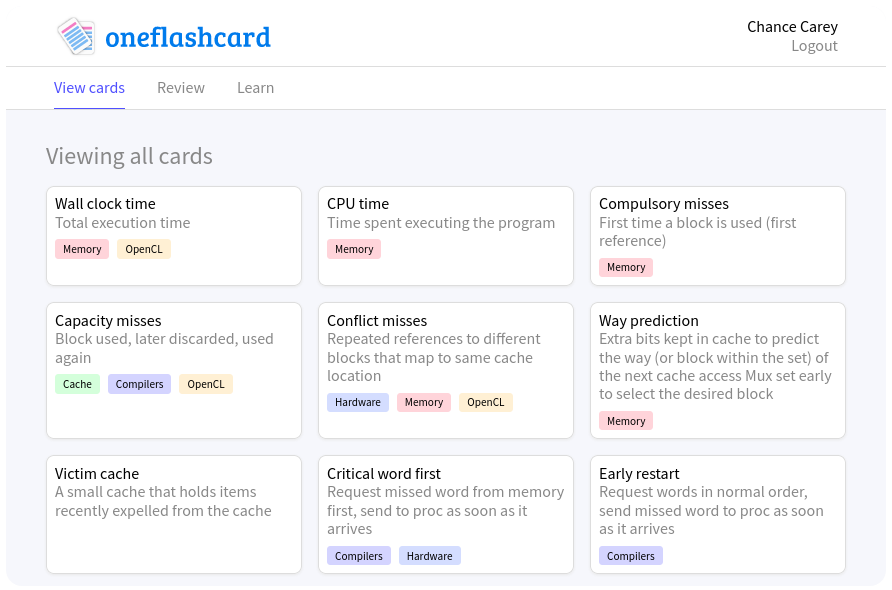
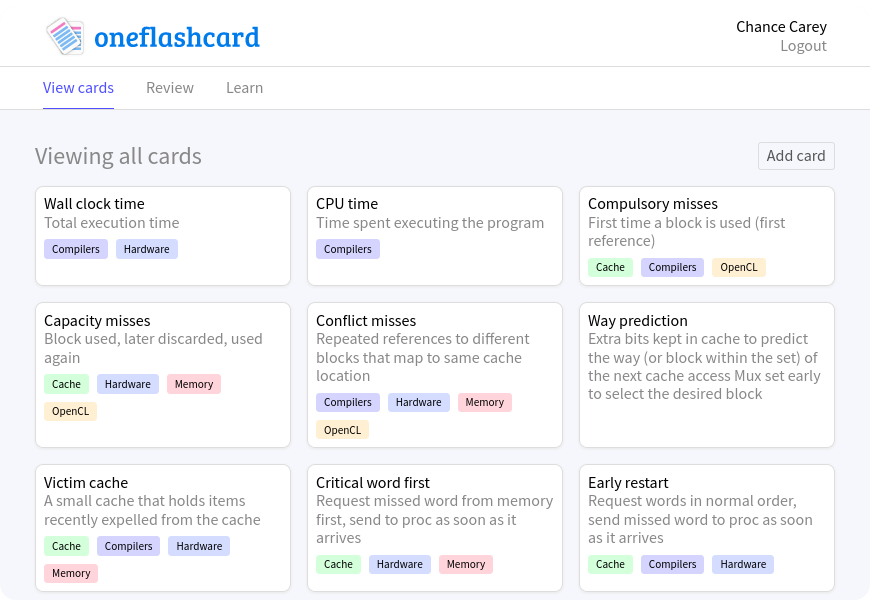
Improve demo picture quality

diff --git a/webclient/src/ui.ts b/webclient/src/ui.ts
@@ -1,5 +1,7 @@
 import styled, { createGlobalStyle } from "styled-components";
 
+export const present = false;
+
 // =============
 // =============
 // Global design
@@ -8,8 +10,25 @@ import styled, { createGlobalStyle } from "styled-components";
 export const GlobalStyle = createGlobalStyle`
 body {
   background: #f6f7fc;
+
+  ${present &&
+    `
+    background: white;
+  `}
+}
+
+#root {
   font-family: "Source Sans Pro", sans-serif;
   padding-bottom: 0.5rem;
+
+  ${present &&
+    `
+    background: #f6f7fc;
+    width: 870px;
+    overflow: hidden;
+    margin: 20px;
+    border-radius: 1rem;
+  `}
 }
 `;
 
@@ -27,6 +46,11 @@ export const VertBar = styled.div`
 export const Centered = styled.div`
   margin: 0 auto;
   max-width: 1400px;
+
+  ${present &&
+    `
+    max-width: 800px;
+  `}
 `;
 
 export const ProfileBox = styled.div`
@@ -88,7 +112,8 @@ export const BodyTitle = styled.div`
 
 export const BodyBarAction = styled.div`
   :hover {
-    border-color: #575757;
+    border-color: #5050ff;
+    color: #5050ff;
   }
 
   float: right;
@@ -105,8 +130,13 @@ export const BodyBarAction = styled.div`
 
 export const Cards = styled.div`
   display: grid;
-  grid-template-columns: repeat(auto-fit, minmax(300px, 1fr));
   grid-gap: 1rem;
+  grid-template-columns: repeat(auto-fit, minmax(300px, 1fr));
+
+  ${present &&
+    `
+    grid-template-columns: repeat(auto-fit, minmax(200px, 1fr));
+  `}
 `;
 
 export const Card = styled.div`
@@ -125,10 +155,10 @@ export const CardBody = styled.div`
 `;
 
 export const CardTags = styled.div`
-  display: grid;
-  grid-auto-flow: column;
+  display: flex;
+  flex-direction: row;
+  flex-wrap: wrap;
   grid-gap: 0.5rem;
-  justify-content: start;
 
   padding-top: 0.5rem;
   font-size: 0.7rem;

diff --git a/webclient/src/cards.ts b/webclient/src/cards.ts
@@ -1,3 +1,5 @@
+import { present } from "./ui";
+
 const cardStr = `
 Wall clock time[[[Total execution time]]]CPU time[[[Time spent executing the program]]]Compulsory misses[[[First time a block is used (first reference)]]]Capacity misses[[[Block used, later discarded, used again]]]Conflict misses[[[Repeated references to different blocks that map to same cache location]]]Way prediction[[[Extra bits kept in cache to predict the way (or block within the set) of the next cache access
   Mux set early to select the desired block]]]Victim cache[[[A small cache that holds items recently expelled from the cache]]]Critical word first[[[Request missed word from memory first, send to proc as soon as it arrives]]]Early restart[[[Request words in normal order, send missed word to proc as soon as it arrives]]]Compiler blocking[[[Subdivide matrices into blocks, more memory access but improves spatial locality]]]Hardware prefetch[[[Fetch next sequential block, spatial locality]]]Compiler prefetch[[[Compiler inserts prefetch instructions]]]Nonblocking cache[[[A cache that allows the processor to make references to the cache while the cache is handling an earlier miss]]]Cycle time[[[Time between starting memory accesses]]]SRAM[[[Static RAM
@@ -95,7 +97,9 @@ Wall clock time[[[Total execution time]]]CPU time[[[Time spent executing the pro
   All other cached copies are invalidated]]]Data hazard[[[Occurs when dependence results in incorrect execution
 `;
 
-export const cards = cardStr
+const allCards = cardStr
   .trim()
   .split("]]]")
   .map(c => c.split("[[[").map(c => c.trim()));
+
+export const cards = present ? allCards.slice(0, 9) : allCards;

diff --git a/webclient/src/App.tsx b/webclient/src/App.tsx
@@ -40,6 +40,7 @@ export const App = () => {
     }
     return sTags.sort();
   };
+
   return (
     <div>
       <VertBar>
